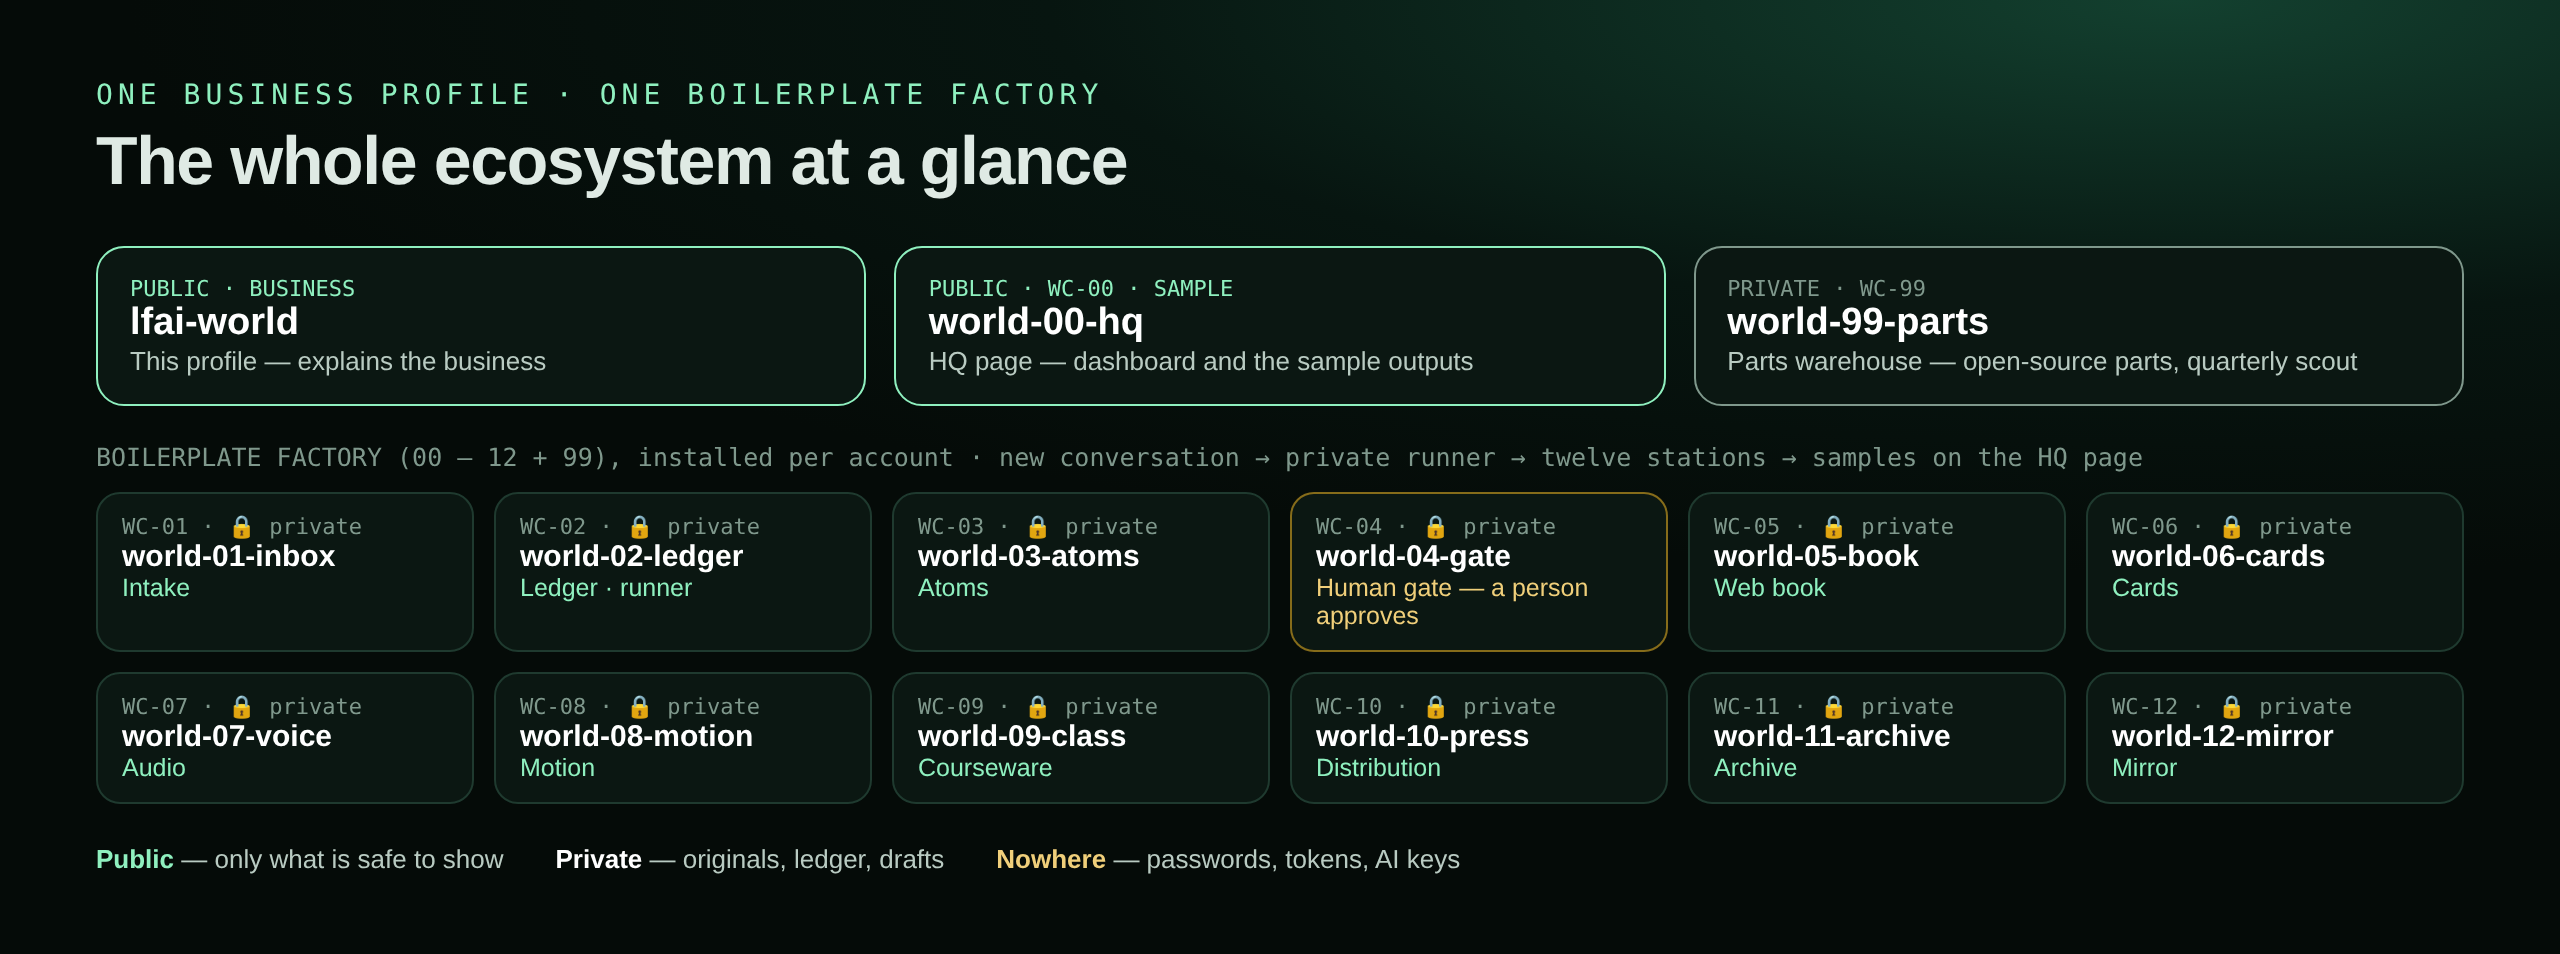
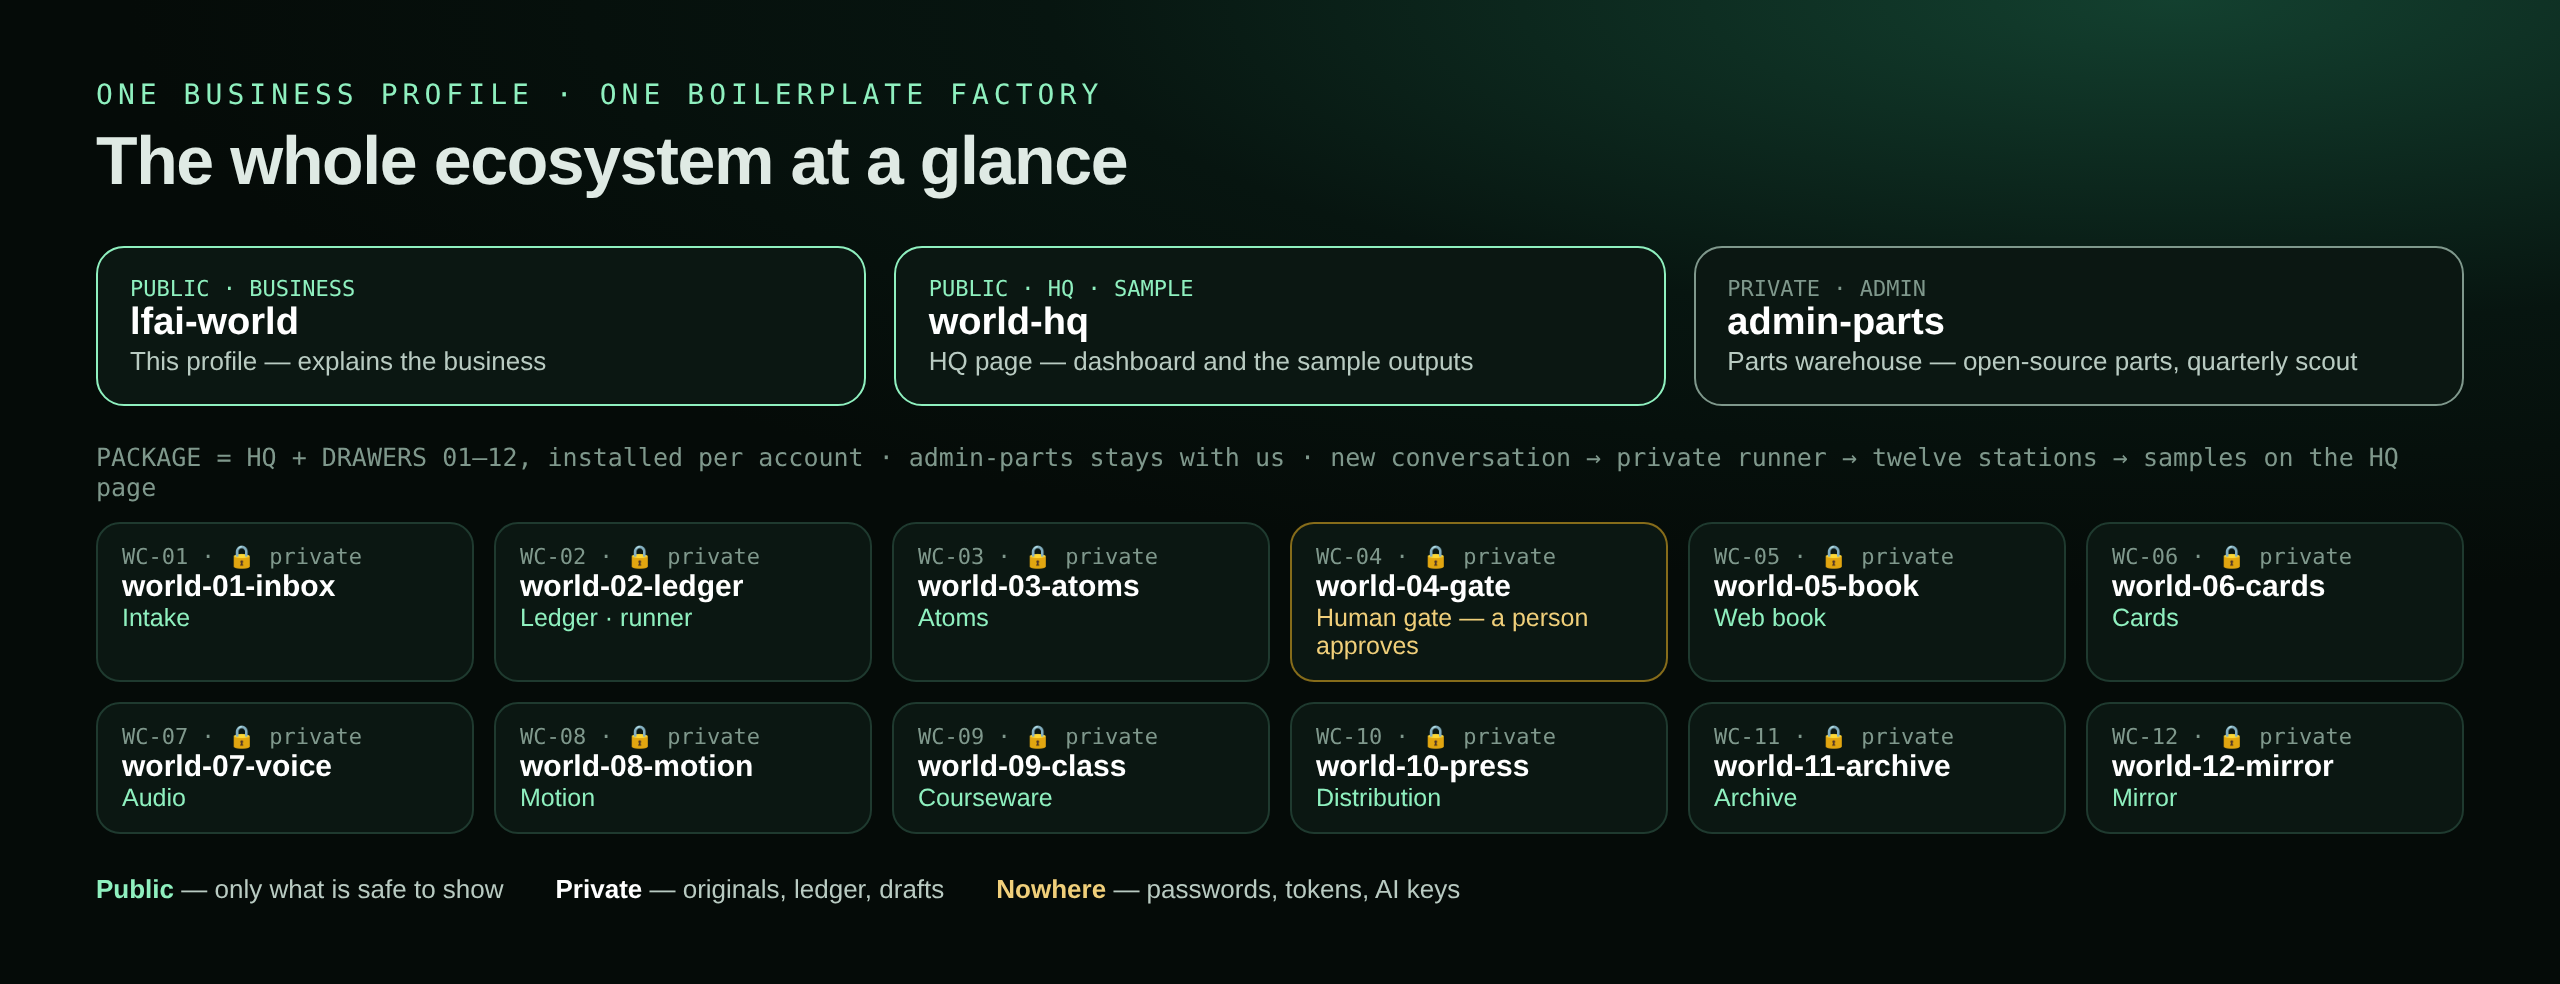
Rename: world-00-hq → world-hq (package core, no number), world-99-parts → admin-parts (development environment)

diff --git a/README.md b/README.md
@@ -1,14 +1,14 @@
 <p align="center"><img src="assets/hero.svg" alt="LFAI WORLD — twelve-station knowledge factory" width="100%"></p>
 
 <p align="center">
-  <a href="https://lfai-world.github.io/world-00-hq/"><img src="assets/btn-dashboard.png" alt="Live dashboard" width="24%"></a>
-  <a href="https://lfai-world.github.io/world-00-hq/showroom/"><img src="assets/btn-showroom.png" alt="Sample outputs" width="24%"></a>
-  <a href="https://github.com/lfai-world/world-00-hq"><img src="assets/btn-hq.png" alt="Headquarters" width="24%"></a>
+  <a href="https://lfai-world.github.io/world-hq/"><img src="assets/btn-dashboard.png" alt="Live dashboard" width="24%"></a>
+  <a href="https://lfai-world.github.io/world-hq/showroom/"><img src="assets/btn-showroom.png" alt="Sample outputs" width="24%"></a>
+  <a href="https://github.com/lfai-world/world-hq"><img src="assets/btn-hq.png" alt="Headquarters" width="24%"></a>
   <a href="#how-it-works"><img src="assets/btn-how.png" alt="How it works" width="24%"></a>
 </p>
 
 <p align="center">
-  <a href="https://lfai-world.github.io/world-00-hq/#qa"><img src="https://img.shields.io/endpoint?url=https://lfai-world.github.io/world-00-hq/badges/qa.json&style=flat-square" alt="qa"></a> <img src="https://img.shields.io/endpoint?url=https://lfai-world.github.io/world-00-hq/badges/lots.json&style=flat-square" alt="lots"> <img src="https://img.shields.io/endpoint?url=https://lfai-world.github.io/world-00-hq/badges/yield.json&style=flat-square" alt="yield"> <img src="https://img.shields.io/endpoint?url=https://lfai-world.github.io/world-00-hq/badges/stations.json&style=flat-square" alt="stations"> <img src="https://img.shields.io/endpoint?url=https://lfai-world.github.io/world-00-hq/badges/wiring.json&style=flat-square" alt="wiring"> <img src="https://img.shields.io/endpoint?url=https://lfai-world.github.io/world-00-hq/badges/chapters.json&style=flat-square" alt="chapters"> <img src="https://img.shields.io/endpoint?url=https://lfai-world.github.io/world-00-hq/badges/pii.json&style=flat-square" alt="pii"> <img src="https://img.shields.io/endpoint?url=https://lfai-world.github.io/world-00-hq/badges/updated.json&style=flat-square" alt="updated">
+  <a href="https://lfai-world.github.io/world-hq/#qa"><img src="https://img.shields.io/endpoint?url=https://lfai-world.github.io/world-hq/badges/qa.json&style=flat-square" alt="qa"></a> <img src="https://img.shields.io/endpoint?url=https://lfai-world.github.io/world-hq/badges/lots.json&style=flat-square" alt="lots"> <img src="https://img.shields.io/endpoint?url=https://lfai-world.github.io/world-hq/badges/yield.json&style=flat-square" alt="yield"> <img src="https://img.shields.io/endpoint?url=https://lfai-world.github.io/world-hq/badges/stations.json&style=flat-square" alt="stations"> <img src="https://img.shields.io/endpoint?url=https://lfai-world.github.io/world-hq/badges/wiring.json&style=flat-square" alt="wiring"> <img src="https://img.shields.io/endpoint?url=https://lfai-world.github.io/world-hq/badges/chapters.json&style=flat-square" alt="chapters"> <img src="https://img.shields.io/endpoint?url=https://lfai-world.github.io/world-hq/badges/pii.json&style=flat-square" alt="pii"> <img src="https://img.shields.io/endpoint?url=https://lfai-world.github.io/world-hq/badges/updated.json&style=flat-square" alt="updated">
 </p>
 
 ## Your AI conversations are your best raw material. Publish them from an account you own.
@@ -17,15 +17,15 @@ People who create knowledge every day — authors, lecturers, researchers, creat
 
 **LFAI WORLD is a personal publishing factory that lives inside one GitHub account.** A conversation goes in; a web book chapter, summary cards, an audio script, a motion page and courseware come out — after a person approves it. The owner keeps the originals, the keys and the data. No GPU, no hosted server, no lock-in to a single AI vendor.
 
-<p align="center"><a href="https://lfai-world.github.io/world-00-hq/"><img src="assets/dashboard.png" alt="Live HQ dashboard: lots in, shipped, yield, production line, showroom" width="100%"></a></p>
+<p align="center"><a href="https://lfai-world.github.io/world-hq/"><img src="assets/dashboard.png" alt="Live HQ dashboard: lots in, shipped, yield, production line, showroom" width="100%"></a></p>
 <p align="center"><sub>The live dashboard of this account's reference factory — real numbers, refreshed from the owner's device.</sub></p>
 
 
 ## Watch it run (60 s)
 
-<p align="center"><a href="https://lfai-world.github.io/world-00-hq/assets/demo.mp4"><img src="https://lfai-world.github.io/world-00-hq/assets/demo.gif" alt="Demo: sample web book, one chapter's outputs, the three layers, the lesson, the dashboard and the self-scored QA" width="100%"></a></p>
+<p align="center"><a href="https://lfai-world.github.io/world-hq/assets/demo.mp4"><img src="https://lfai-world.github.io/world-hq/assets/demo.gif" alt="Demo: sample web book, one chapter's outputs, the three layers, the lesson, the dashboard and the self-scored QA" width="100%"></a></p>
 
-**What the factory ships, per conversation:** a web-book chapter in three layers · cards (1080×1350) · narration in the owner's voice · a vertical video · a lesson page — all published on the HQ page: **[sample site](https://lfai-world.github.io/world-00-hq/showroom/)** — searchable, with an [RSS feed](https://lfai-world.github.io/world-00-hq/feed.xml). A customer's factory publishes the same way on their own HQ page.
+**What the factory ships, per conversation:** a web-book chapter in three layers · cards (1080×1350) · narration in the owner's voice · a vertical video · a lesson page — all published on the HQ page: **[sample site](https://lfai-world.github.io/world-hq/showroom/)** — searchable, with an [RSS feed](https://lfai-world.github.io/world-hq/feed.xml). A customer's factory publishes the same way on their own HQ page.
 
 ## The whole ecosystem at a glance
 
@@ -34,7 +34,7 @@ People who create knowledge every day — authors, lecturers, researchers, creat
 | # | Repository | Role | Visibility |
 |---|---|---|---|
 | — | [`lfai-world`](https://github.com/lfai-world/lfai-world) | **This profile — explains the business.** Everything below is the boilerplate factory installed per account | Public |
-| WC-00 | [`world-00-hq`](https://github.com/lfai-world/world-00-hq) | Headquarters — dashboard, wiring, KPI, and the **sample outputs** on its page ([sample site](https://lfai-world.github.io/world-00-hq/showroom/)) | Public |
+| HQ | [`world-hq`](https://github.com/lfai-world/world-hq) | Headquarters — dashboard, wiring, KPI, and the **sample outputs** on its page ([sample site](https://lfai-world.github.io/world-hq/showroom/)) | Public |
 | WC-01 | `world-01-inbox` | Intake — conversations arrive (share from phone or an Issue form) | Private |
 | WC-02 | `world-02-ledger` | Ledger + cloud runner — de-duplicate, trace every lot | Private |
 | WC-03 | `world-03-atoms` | Knowledge atoms | Private |
@@ -42,7 +42,7 @@ People who create knowledge every day — authors, lecturers, researchers, creat
 | WC-05 … 10 | `book` · `cards` · `voice` · `motion` · `class` · `press` | Outputs — web book, cards, audio, motion, courseware, distribution | Private |
 | WC-11 | `world-11-archive` | Archive — search index, the owner's style data | Private |
 | WC-12 | `world-12-mirror` | Mirror — full git bundles on every run | Private |
-| — | `world-99-parts` | Open-source parts warehouse — quarterly scout | Private |
+| — | `admin-parts` | Open-source parts warehouse — quarterly scout | Private |
 
 ## Live — refreshed by the factory, not by hand
 
@@ -86,7 +86,7 @@ flowchart LR
   R --> S["WC-01 … WC-12<br/>all twelve stations"]
   S --> D["HQ page: dashboard + sample outputs<br/>this profile's live numbers"]
   R --> M[("WC-12 mirror<br/>git bundles · 30 days")]
-  X(["quarterly cron"]) --> P["scout agent"] -->|opens PR| Q{"check"} -->|pass → merges itself| W["WC-99 parts"]
+  X(["quarterly cron"]) --> P["scout agent"] -->|opens PR| Q{"check"} -->|pass → merges itself| W["ADMIN parts"]
 ```
 
 ## What it costs to run
@@ -103,7 +103,7 @@ No database, no VPS, no GPU. GitHub is the plant, the warehouse and the CDN; the
 
 ## GitHub as a factory — the playbook
 
-**Learn it lesson by lesson:** [the Playbook — ten lessons, each tied to something running here](https://github.com/lfai-world/world-00-hq/tree/main/playbook). Every change to the public side is itself an example: an instruction filed as an [issue](https://github.com/lfai-world/world-00-hq/issues?q=is%3Aissue), worked as a [pull request](https://github.com/lfai-world/world-00-hq/pulls?q=is%3Apr), merged on the owner's OK.
+**Learn it lesson by lesson:** [the Playbook — ten lessons, each tied to something running here](https://github.com/lfai-world/world-hq/tree/main/playbook). Every change to the public side is itself an example: an instruction filed as an [issue](https://github.com/lfai-world/world-hq/issues?q=is%3Aissue), worked as a [pull request](https://github.com/lfai-world/world-hq/pulls?q=is%3Apr), merged on the owner's OK.
 
 Most people use GitHub as a place to store code. This account uses it as **a zero-server production plant and a permanent database**, and every feature below is running here today. Each row is something a new owner learns during setup — by voice, through an agent, without memorising commands.
 
@@ -111,13 +111,13 @@ Most people use GitHub as a place to store code. This account uses it as **a zer
 |---|---|---|
 | **Repositories** | Fifteen drawers, numbered in production order; private by default | [ecosystem map](#the-whole-ecosystem-at-a-glance) |
 | **Actions — events** | A new conversation or an approval signals a private runner directly; it runs all twelve stations and refreshes the public pages. The public repositories hold no keys | <a href="#the-line-in-motion"><img src="https://img.shields.io/badge/signals-automated-2fbf7f?style=flat-square&logo=githubactions&logoColor=white" alt="signals"></a> |
-| **Actions — cron** | Daily 06:00 check run · quarterly parts scout (Jan · Apr · Jul · Oct) | <a href="https://github.com/lfai-world/world-99-parts"><img src="https://img.shields.io/badge/schedule-automated-2fbf7f?style=flat-square&logo=githubactions&logoColor=white" alt="schedule"></a> |
-| **Pages + PWA** | The HQ page — dashboard plus the sample web book, installable like an app — served free | [sample site](https://lfai-world.github.io/world-00-hq/showroom/) · [dashboard](https://lfai-world.github.io/world-00-hq/) |
+| **Actions — cron** | Daily 06:00 check run · quarterly parts scout (Jan · Apr · Jul · Oct) | <a href="https://github.com/lfai-world/admin-parts"><img src="https://img.shields.io/badge/schedule-automated-2fbf7f?style=flat-square&logo=githubactions&logoColor=white" alt="schedule"></a> |
+| **Pages + PWA** | The HQ page — dashboard plus the sample web book, installable like an app — served free | [sample site](https://lfai-world.github.io/world-hq/showroom/) · [dashboard](https://lfai-world.github.io/world-hq/) |
 | **Issues as a CMS** | An Issue form in the inbox becomes a conversation file and enters the line — no database | `world-01-inbox` · form “New conversation” |
-| **Agent pull requests** | The scout agent opens a PR, a check validates it, then it merges itself | `world-99-parts` · PRs |
+| **Agent pull requests** | The scout agent opens a PR, a check validates it, then it merges itself | `admin-parts` · PRs |
 | **Secrets + variables** | Wiring keys live in the owner's own Actions secrets — never in a file, never with us | repository settings |
 | **Artifacts** | Every cloud run stores git bundles of all stations for 30 days | runner artifacts |
-| **Endpoint badges** | The numbers above — including the nightly QA score — are JSON files the runner writes after each run | [badges/](https://lfai-world.github.io/world-00-hq/badges/yield.json) |
+| **Endpoint badges** | The numbers above — including the nightly QA score — are JSON files the runner writes after each run | [badges/](https://lfai-world.github.io/world-hq/badges/yield.json) |
 | **REST / GraphQL API** | The installer and the agent drive all of this — one command, `world apply`, then `world wire` | installer |
 
 ## Why this is different
